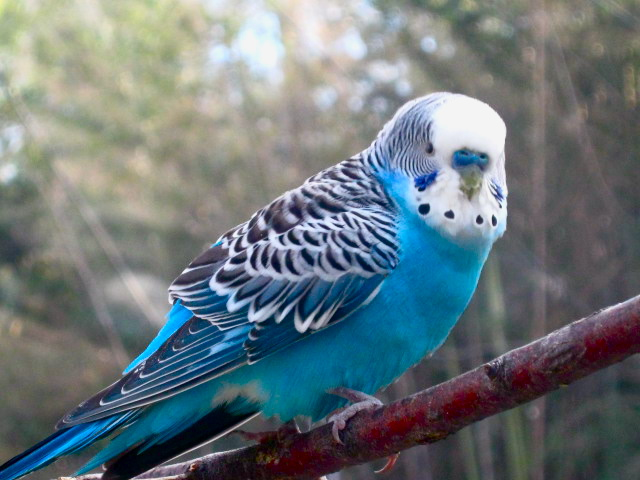
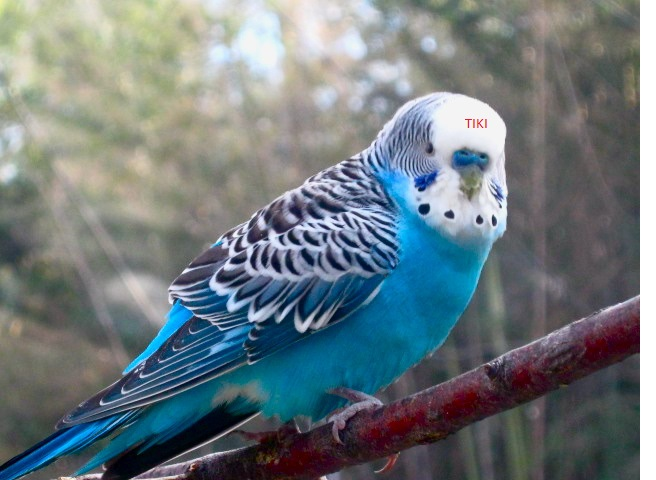
new

diff --git a/home.html b/home.html
@@ -124,7 +124,7 @@
 					<a href="final.html">Final Project</a>
 				</li>
 				<li>
-					<a href="home.html">Home</a>
+					<a href="index.html">Home</a>
 				</li>
 			</ul>
 		</div><!-- end Navigation links -->
@@ -133,8 +133,8 @@
 	
 	<!-- Section Content -->
 	<section id="content">
-	    <h2>Home Content</h2>
-		<p>Replace this text with project and assignment examples</p>
+	    <p>
+		<img src="images/nameproject.jpg">
 	</section><!-- end Content -->
 	
 	<!-- Aside Content -->
